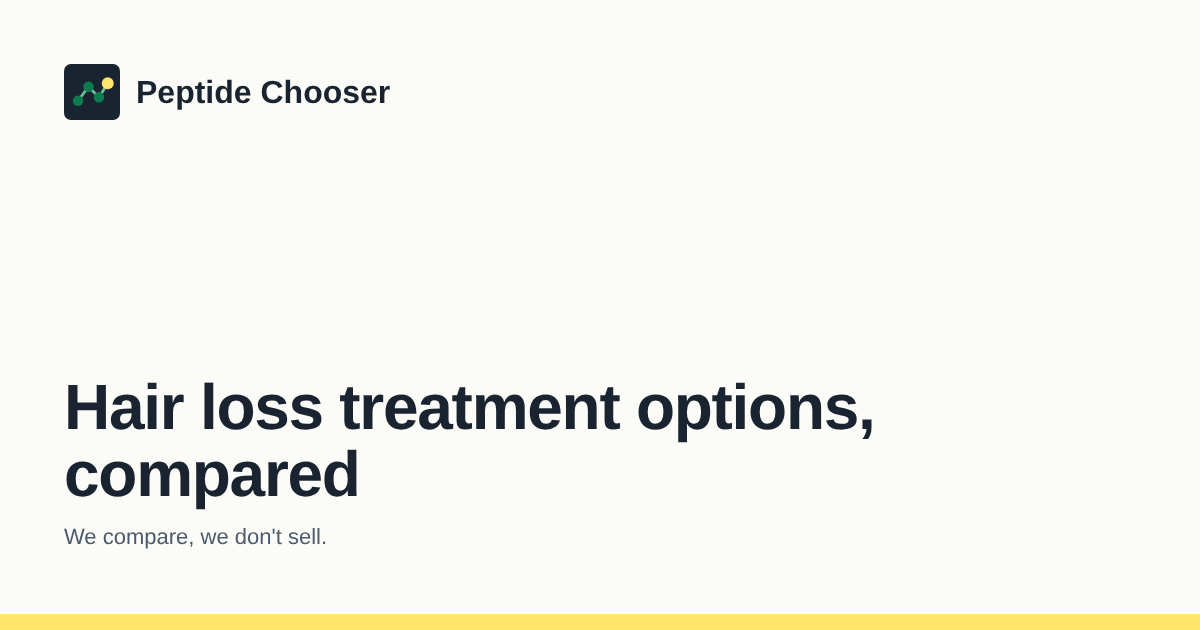
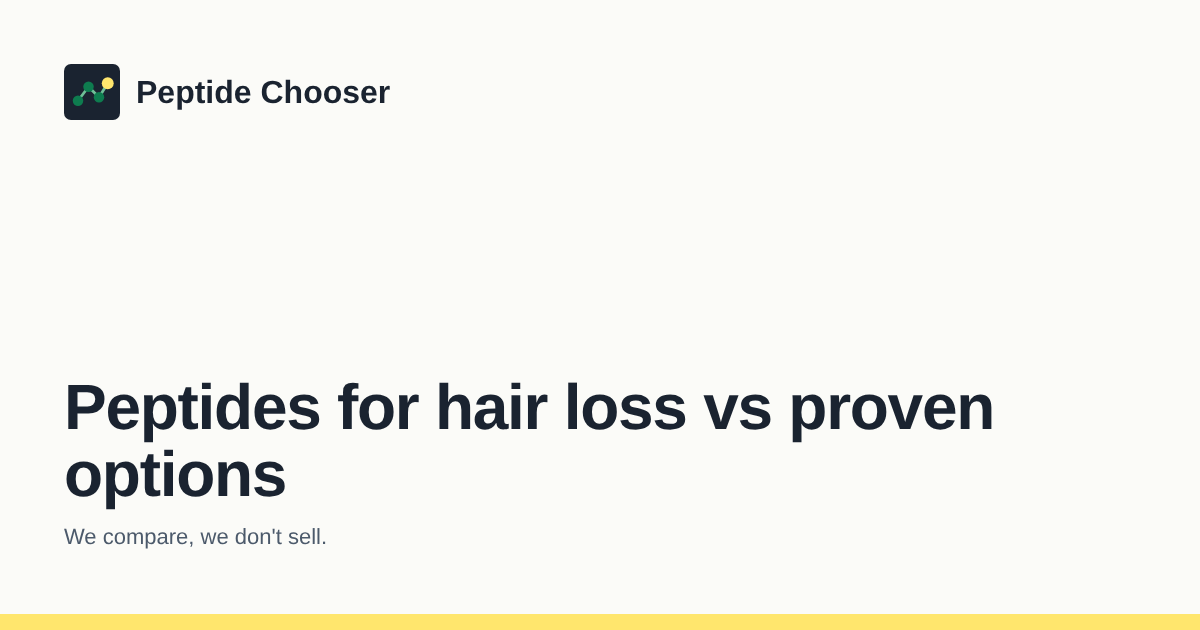
Target 'peptides for hair loss' on /hair/ and fix meta description lengths (APPROVED SEO, Karlo, 30 Oct 2026)
Claude-Session: https://claude.ai/code/session_01K7i6U7FhGj53k97jfnCtb5

Changed region(s): [[0.0617, 0.6032, 0.8325, 0.8143]]

diff --git a/dist/hair/index.html b/dist/hair/index.html
@@ -3,13 +3,13 @@
 <head>
 <meta charset="utf-8">
 <meta name="viewport" content="width=device-width, initial-scale=1">
-<title>Hair loss treatment options, compared | Peptide Chooser</title>
-<meta name="description" content="Finasteride and minoxidil next to copper peptide serums and research-labeled peptides: FDA status, evidence in people and price per month, checked and dated.">
+<title>Peptides for hair loss vs proven options | Peptide Chooser</title>
+<meta name="description" content="Peptides for hair loss next to finasteride and minoxidil: FDA status, evidence in people and price per month for each option, checked and dated.">
 <link rel="canonical" href="https://peptidechooser.com/hair/">
 <meta property="og:type" content="website">
 <meta property="og:site_name" content="Peptide Chooser">
-<meta property="og:title" content="Hair loss treatment options, compared | Peptide Chooser">
-<meta property="og:description" content="Finasteride and minoxidil next to copper peptide serums and research-labeled peptides: FDA status, evidence in people and price per month, checked and dated.">
+<meta property="og:title" content="Peptides for hair loss vs proven options | Peptide Chooser">
+<meta property="og:description" content="Peptides for hair loss next to finasteride and minoxidil: FDA status, evidence in people and price per month for each option, checked and dated.">
 <meta property="og:url" content="https://peptidechooser.com/hair/">
 <meta property="og:image" content="https://peptidechooser.com/assets/og/hair.png">
 <meta name="twitter:card" content="summary_large_image">
@@ -37,7 +37,7 @@
 <section class="hero">
   <div class="wrap hero-grid">
     <div>
-      <h1>Hair loss treatment options, compared honestly.</h1>
+      <h1>Peptides for hair loss, compared with the proven options.</h1>
       <p class="small meta">Peptide Chooser editorial team. Last updated 30 Oct 2026. Every claim links to its source. Prices checked 30 Oct 2026.</p>
       <p class="intro">Finasteride and minoxidil are the only treatments on this page the FDA has approved for hair loss, and generic finasteride starts at about $10 a month. Copper peptide serums are cosmetics: the evidence is from lab and follicle-culture studies, not from large trials in people. Injectable peptides sold for hair are not approved for any use, and we found no human evidence for hair.</p>
     </div>

diff --git a/dist/index.html b/dist/index.html
@@ -4,12 +4,12 @@
 <meta charset="utf-8">
 <meta name="viewport" content="width=device-width, initial-scale=1">
 <title>Best peptides by goal, compared | Peptide Chooser</title>
-<meta name="description" content="FDA status, real prices and evidence for each goal, checked and dated. Peptide products next to the approved alternatives, from an independent site that never sells.">
+<meta name="description" content="FDA status, real prices and evidence for each goal, checked and dated. Peptides next to the approved alternatives, from a site that never sells.">
 <link rel="canonical" href="https://peptidechooser.com/">
 <meta property="og:type" content="website">
 <meta property="og:site_name" content="Peptide Chooser">
 <meta property="og:title" content="Best peptides by goal, compared | Peptide Chooser">
-<meta property="og:description" content="FDA status, real prices and evidence for each goal, checked and dated. Peptide products next to the approved alternatives, from an independent site that never sells.">
+<meta property="og:description" content="FDA status, real prices and evidence for each goal, checked and dated. Peptides next to the approved alternatives, from a site that never sells.">
 <meta property="og:url" content="https://peptidechooser.com/">
 <meta property="og:image" content="https://peptidechooser.com/assets/og/home.png">
 <meta name="twitter:card" content="summary_large_image">

diff --git a/dist/disclosure/index.html b/dist/disclosure/index.html
@@ -4,12 +4,12 @@
 <meta charset="utf-8">
 <meta name="viewport" content="width=device-width, initial-scale=1">
 <title>Affiliate and medical disclosure | Peptide Chooser</title>
-<meta name="description" content="How Peptide Chooser earns money through paid links, and why nothing on the site is medical advice.">
+<meta name="description" content="How Peptide Chooser earns money through labeled paid links, why commissions never change a rating, and why nothing on the site is medical advice.">
 <link rel="canonical" href="https://peptidechooser.com/disclosure/">
 <meta property="og:type" content="website">
 <meta property="og:site_name" content="Peptide Chooser">
 <meta property="og:title" content="Affiliate and medical disclosure | Peptide Chooser">
-<meta property="og:description" content="How Peptide Chooser earns money through paid links, and why nothing on the site is medical advice.">
+<meta property="og:description" content="How Peptide Chooser earns money through labeled paid links, why commissions never change a rating, and why nothing on the site is medical advice.">
 <meta property="og:url" content="https://peptidechooser.com/disclosure/">
 <meta property="og:image" content="https://peptidechooser.com/assets/og/disclosure.png">
 <meta name="twitter:card" content="summary_large_image">

diff --git a/dist/privacy/index.html b/dist/privacy/index.html
@@ -4,12 +4,12 @@
 <meta charset="utf-8">
 <meta name="viewport" content="width=device-width, initial-scale=1">
 <title>Privacy policy | Peptide Chooser</title>
-<meta name="description" content="What information Peptide Chooser collects, how it is used and how to contact us about your data.">
+<meta name="description" content="What information Peptide Chooser collects when you visit or email us, how long we keep it, your rights, and how to contact us about your data.">
 <link rel="canonical" href="https://peptidechooser.com/privacy/">
 <meta property="og:type" content="website">
 <meta property="og:site_name" content="Peptide Chooser">
 <meta property="og:title" content="Privacy policy | Peptide Chooser">
-<meta property="og:description" content="What information Peptide Chooser collects, how it is used and how to contact us about your data.">
+<meta property="og:description" content="What information Peptide Chooser collects when you visit or email us, how long we keep it, your rights, and how to contact us about your data.">
 <meta property="og:url" content="https://peptidechooser.com/privacy/">
 <meta property="og:image" content="https://peptidechooser.com/assets/og/privacy.png">
 <meta name="twitter:card" content="summary_large_image">

diff --git a/dist/contact/index.html b/dist/contact/index.html
@@ -4,12 +4,12 @@
 <meta charset="utf-8">
 <meta name="viewport" content="width=device-width, initial-scale=1">
 <title>Contact | Peptide Chooser</title>
-<meta name="description" content="Contact Peptide Chooser by email for corrections, listings, press and partnerships.">
+<meta name="description" content="Email Peptide Chooser for corrections with a source, questions about a listing, press and partnerships. We cannot answer personal medical questions.">
 <link rel="canonical" href="https://peptidechooser.com/contact/">
 <meta property="og:type" content="website">
 <meta property="og:site_name" content="Peptide Chooser">
 <meta property="og:title" content="Contact | Peptide Chooser">
-<meta property="og:description" content="Contact Peptide Chooser by email for corrections, listings, press and partnerships.">
+<meta property="og:description" content="Email Peptide Chooser for corrections with a source, questions about a listing, press and partnerships. We cannot answer personal medical questions.">
 <meta property="og:url" content="https://peptidechooser.com/contact/">
 <meta property="og:image" content="https://peptidechooser.com/assets/og/contact.png">
 <meta name="twitter:card" content="summary_large_image">

diff --git a/dist/404.html b/dist/404.html
@@ -4,12 +4,12 @@
 <meta charset="utf-8">
 <meta name="viewport" content="width=device-width, initial-scale=1">
 <title>Page not found | Peptide Chooser</title>
-<meta name="description" content="This page does not exist.">
+<meta name="description" content="This page does not exist on Peptide Chooser. Go to the home page or compare peptide options by goal; the link may be old or mistyped.">
 <link rel="canonical" href="https://peptidechooser.com/404">
 <meta property="og:type" content="website">
 <meta property="og:site_name" content="Peptide Chooser">
 <meta property="og:title" content="Page not found | Peptide Chooser">
-<meta property="og:description" content="This page does not exist.">
+<meta property="og:description" content="This page does not exist on Peptide Chooser. Go to the home page or compare peptide options by goal; the link may be old or mistyped.">
 <meta property="og:url" content="https://peptidechooser.com/404">
 <meta property="og:image" content="https://peptidechooser.com/assets/og/404.png">
 <meta name="twitter:card" content="summary_large_image">

diff --git a/build.py b/build.py
@@ -395,18 +395,18 @@ NOT_FOUND = """
 
 PAGES = [
     ("/", "index.html", "Best peptides by goal, compared | Peptide Chooser",
-     "FDA status, real prices and evidence for each goal, checked and dated. Peptide products next to the approved alternatives, from an independent site that never sells.",
+     "FDA status, real prices and evidence for each goal, checked and dated. Peptides next to the approved alternatives, from a site that never sells.",
      HOME, ORG_SCHEMA, None),
     ("/about/", "about/index.html", "About Peptide Chooser",
      "Peptide Chooser is an independent site that compares peptide products and sellers for people in the United States.", ABOUT, "", [("/about/", "About")]),
     ("/how-we-rate/", "how-we-rate/index.html", "How we rate peptide products and sellers | Peptide Chooser",
      "The five criteria Peptide Chooser uses to rate every peptide product and seller: evidence, FDA status, lab testing, real price and transparency.", HOW, "", [("/how-we-rate/", "How we rate")]),
     ("/contact/", "contact/index.html", "Contact | Peptide Chooser",
-     "Contact Peptide Chooser by email for corrections, listings, press and partnerships.", CONTACT, "", [("/contact/", "Contact")]),
+     "Email Peptide Chooser for corrections with a source, questions about a listing, press and partnerships. We cannot answer personal medical questions.", CONTACT, "", [("/contact/", "Contact")]),
     ("/disclosure/", "disclosure/index.html", "Affiliate and medical disclosure | Peptide Chooser",
-     "How Peptide Chooser earns money through paid links, and why nothing on the site is medical advice.", DISCLOSURE, "", [("/disclosure/", "Disclosure")]),
+     "How Peptide Chooser earns money through labeled paid links, why commissions never change a rating, and why nothing on the site is medical advice.", DISCLOSURE, "", [("/disclosure/", "Disclosure")]),
     ("/privacy/", "privacy/index.html", "Privacy policy | Peptide Chooser",
-     "What information Peptide Chooser collects, how it is used and how to contact us about your data.", PRIVACY, "", [("/privacy/", "Privacy")]),
+     "What information Peptide Chooser collects when you visit or email us, how long we keep it, your rights, and how to contact us about your data.", PRIVACY, "", [("/privacy/", "Privacy")]),
 ]
 
 for _g in LIVE_GOALS:
@@ -433,7 +433,7 @@ def main():
         target.parent.mkdir(parents=True, exist_ok=True)
         target.write_text(page(path, title, desc, body, schema, crumb), encoding="utf-8")
     (DIST / "404.html").write_text(page("/404", "Page not found | Peptide Chooser",
-                                        "This page does not exist.", NOT_FOUND), encoding="utf-8")
+                                        "This page does not exist on Peptide Chooser. Go to the home page or compare peptide options by goal; the link may be old or mistyped.", NOT_FOUND), encoding="utf-8")
     (DIST / "CNAME").write_text("peptidechooser.com\n")
     (DIST / ".nojekyll").write_text("")
     (DIST / "robots.txt").write_text(f"User-agent: *\nAllow: /\nDisallow: /out/\nSitemap: {SITE}/sitemap.xml\n")
